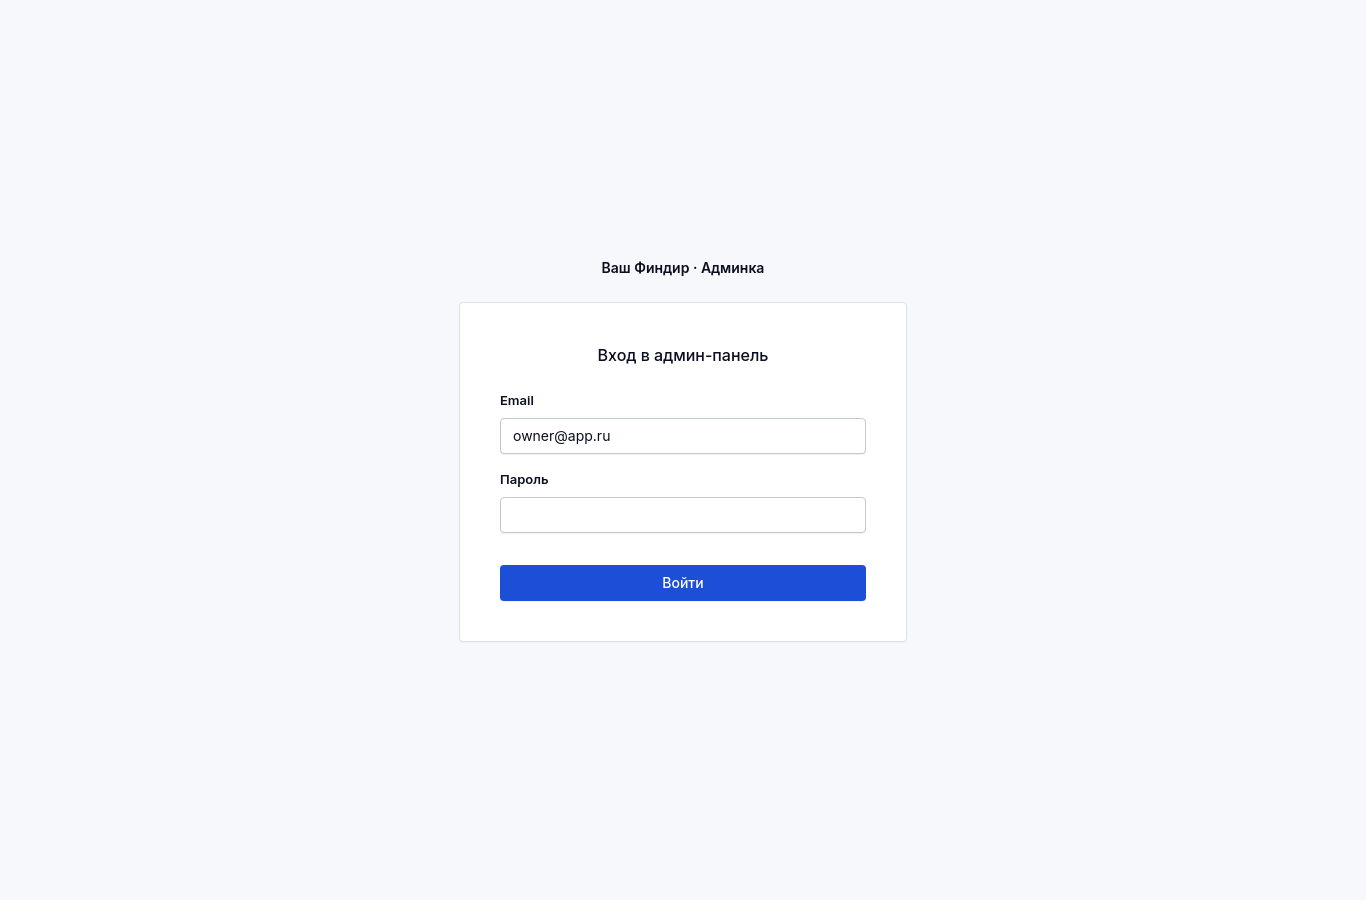
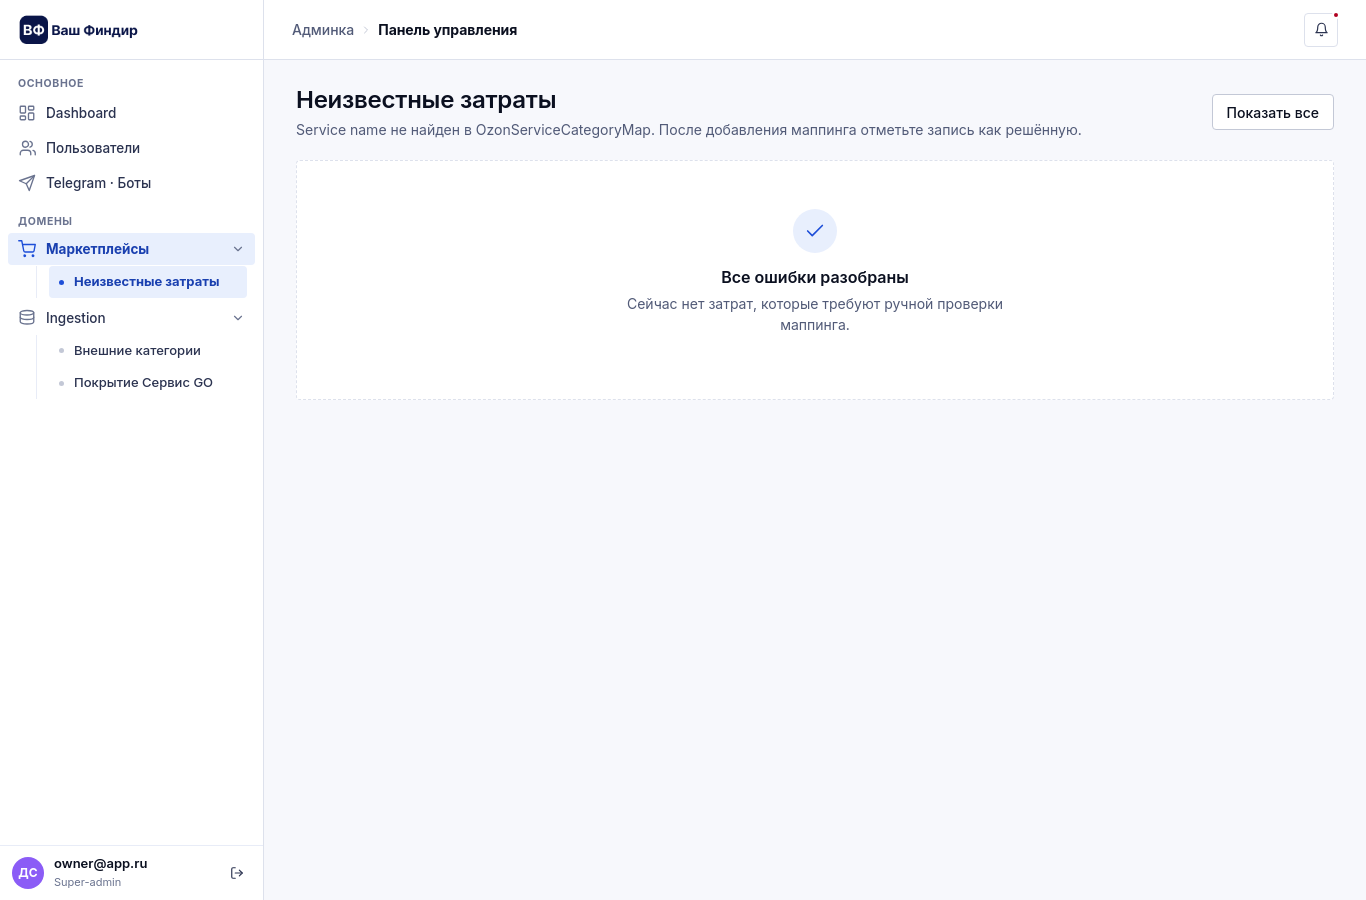
docs(twig): Stage 4 PR B — скриншоты двух админ-страниц переснять с входом в админ-firewall
Первый прогон снимал /admin/login вместо страниц; переснято master ↔ ветка — identical.

diff --git a/docs/tasks/twig-ui-systematization/stages/stage-4.md b/docs/tasks/twig-ui-systematization/stages/stage-4.md
@@ -92,7 +92,8 @@
 
 ##### Проверка визуала
 - Стенд, 8 страниц (все GET), 1366×900 fullPage, до и после — все identical (Pillow). Скриншоты «до» —
-  `screens/stage-4/pr-b/`. Оговорка: автоправила, платёжный календарь, предпросмотр 1С и неизвестные затраты на стенде
+  `screens/stage-4/pr-b/`. Две админ-страницы живут за отдельным firewall `^/admin` (`/admin/login`): первый прогон
+  снял там страницу входа; переснято с входом в админку (master ↔ ветка) — identical, PNG заменены. Оговорка: автоправила, платёжный календарь, предпросмотр 1С и неизвестные затраты на стенде
   без данных — строки таблиц (sticky-шапка, подсветка строк) не отрисованы; для них гарантия — сверка деклараций 1:1.
 
 ##### Files changed (PR B)
